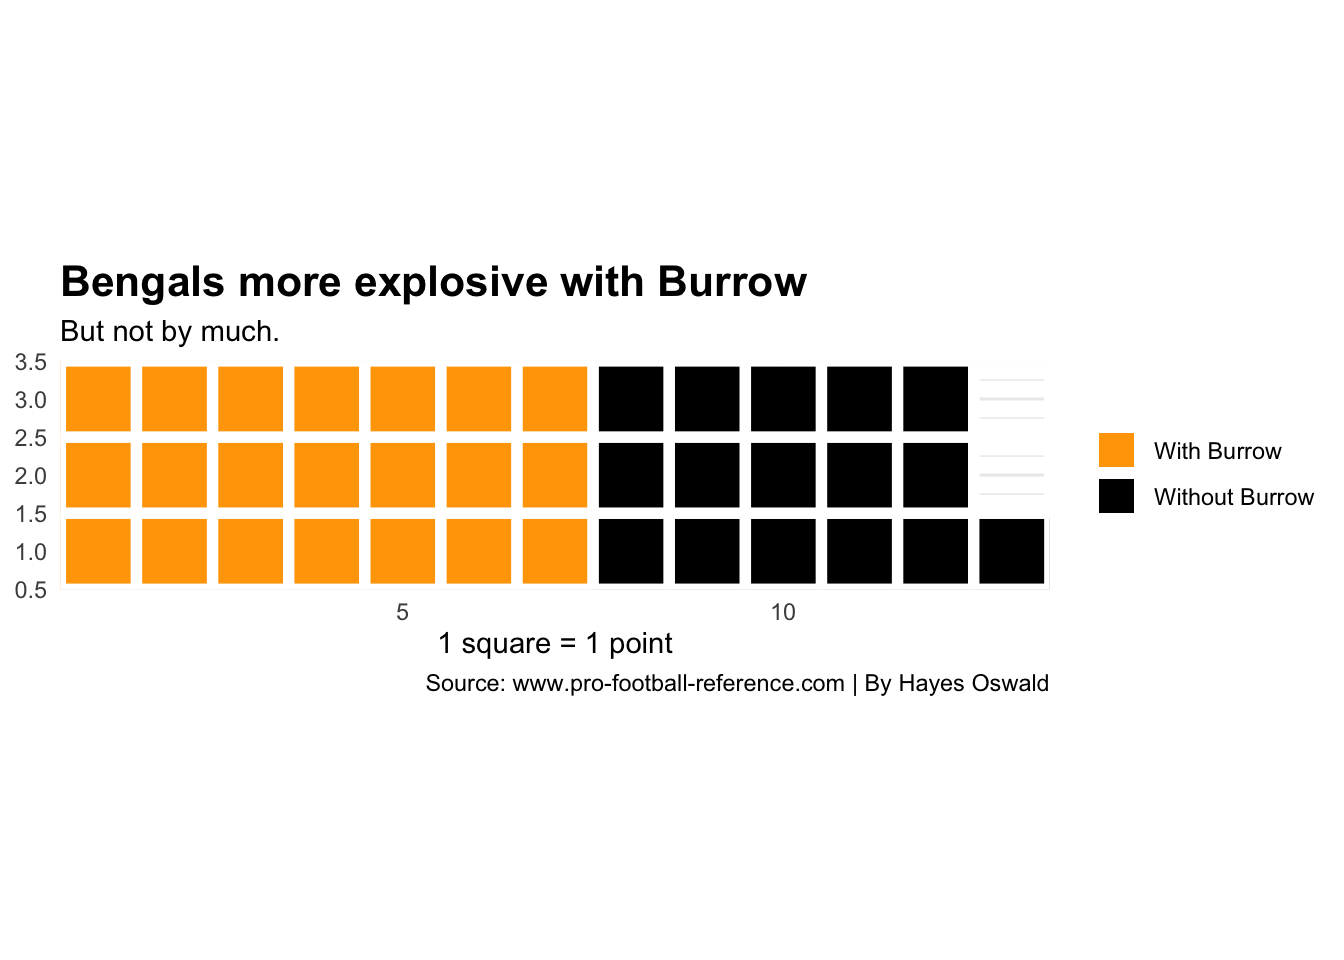
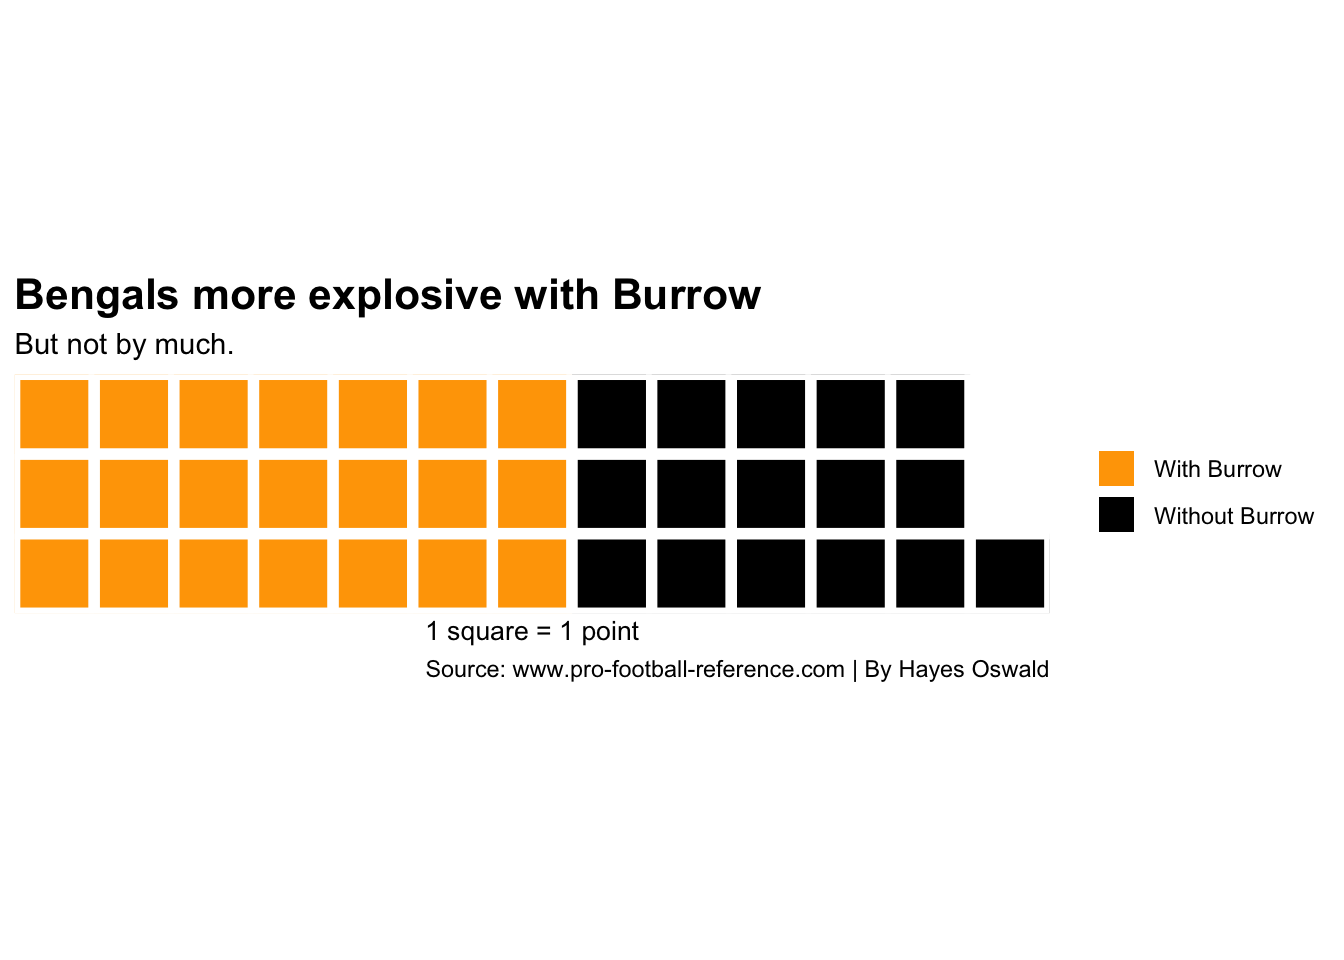
burrow12

Changed region(s): [[0.0, 0.2812, 0.7812, 0.7188], [0.8125, 0.4375, 0.9688, 0.5625]]

diff --git a/2021/11/30/why-the-bengals-need-joe-burrow/index.html b/2021/11/30/why-the-bengals-need-joe-burrow/index.html
@@ -137,7 +137,7 @@ library(ggrepel)</code></pre>
         rows = 3, 
         title= &quot;Bengals more explosive with Burrow&quot;, 
         xlab=&quot;1 square = 1 point&quot;, 
-        colors = c(&quot;orange&quot;, &quot;black&quot;)) + labs(caption = &quot;Source: www.pro-football-reference.com | By Hayes Oswald&quot;, subtitle = &quot;But not by much.&quot;) + theme_minimal() +
+        colors = c(&quot;orange&quot;, &quot;black&quot;)) + labs(caption = &quot;Source: www.pro-football-reference.com | By Hayes Oswald&quot;, subtitle = &quot;But not by much.&quot;) +
   theme(
     plot.title = element_text(size = 16, face = &quot;bold&quot;))</code></pre>
 <p><img src="/post/2021-11-30-why-the-bengals-need-joe-burrow/burrowpost_files/figure-html/unnamed-chunk-6-1.png" width="672" />
